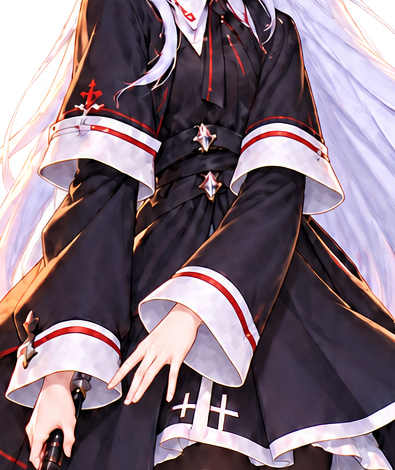
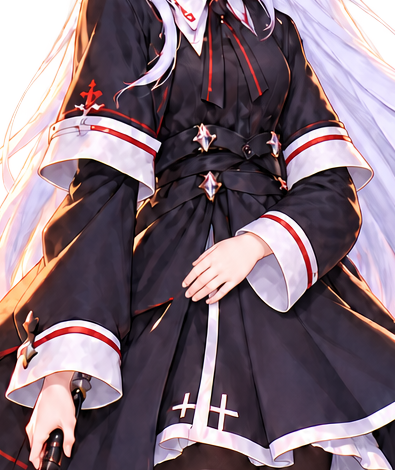
feat: give each gesture a third in-between frame
The arm's way to the hilt and to the beret now has three in-betweens,
one added where the gap was widest: below the belt on the way to the hilt
(the old second frame becomes the third) and beside the temple on the way
to the beret. The gesture passes the five frames over 0.44 s and returns
in 0.5 s.

diff --git a/rogue-like-play/tools/build_lobby_hero.py b/rogue-like-play/tools/build_lobby_hero.py
@@ -14,8 +14,8 @@ swaying hair never leaves the texture):
   the edits can differ from the illustration.
 - art/characters/mio_lobby_pose_hilt.png, _pose_beret and _face_smile: the
   changed rectangle (PATCHES) of the edits mio_lobby_pose_hilt.png etc.,
-  for the Random Idle gestures and the click smile; _pose_hilt_1/_2 and
-  _pose_beret_1/_2 are the arm's in-between frames on the way there.
+  for the Random Idle gestures and the click smile; _pose_hilt_1 to _3 and
+  _pose_beret_1 to _3 are the arm's in-between frames on the way there.
 - art/characters/mio_lobby_motion.png: how far each body pixel may sway,
   read by ui/lobby_hero.gd. Red is the hair strands in front of her
   shoulder, green the coat and skirt hem; both grow towards the tips.
@@ -41,9 +41,11 @@ EYE_VARIANTS = ["half", "closed", "left", "right"]
 PATCHES = {
 	"pose_hilt_1": (215, 300, 610, 770),
 	"pose_hilt_2": (215, 300, 610, 770),
+	"pose_hilt_3": (215, 300, 610, 770),
 	"pose_hilt": (215, 300, 610, 770),
 	"pose_beret_1": (415, 85, 690, 545),
 	"pose_beret_2": (415, 85, 690, 545),
+	"pose_beret_3": (415, 85, 690, 545),
 	"pose_beret": (415, 85, 690, 545),
 	"face_smile": (295, 135, 455, 300),
 }

diff --git a/rogue-like-play/開発メモ.md b/rogue-like-play/開発メモ.md
@@ -325,7 +325,7 @@ godot --headless --path . --log-file .godot/restart-read.log --script res://test
 
 > 笑顔：Change ONLY her facial expression: a gentle, warm closed-mouth smile with softly curved, slightly narrowed happy eyes and a faint blush, same anime style, same eye color. The face shape, head position, hair and everything else stay the same. Everything else must stay pixel-identical in position, size, pose, framing, colors and lighting: her head, face, hair, beret, legs, boots and the rest of the clothes must not move or change. Same 1024x1536 canvas and same placement of the character. No text, no watermark.
 
-腕が動く途中の差分（`mio_lobby_pose_hilt_1.png`・`_2`、`mio_lobby_pose_beret_1.png`・`_2`）も同じ方法で作りました。途中の位置だけを変えた指示です。
+腕が動く途中の差分（`mio_lobby_pose_hilt_1.png`〜`_3`、`mio_lobby_pose_beret_1.png`〜`_3`）も同じ方法で作りました。途中の位置だけを変えた指示です。剣の柄の`_2`と帽子の`_3`は、間隔が空いていた区間を埋めるため後から追加したもので、以下の「途中1・途中2」の指示はそれぞれ柄の`_1`・`_3`、帽子の`_1`・`_2`にあたります。
 
 > 柄へ向かう途中1：Change ONLY one arm and hand: the hand that now rests near her chest (on the right side of the picture). It has started moving down towards the sword hilt that her other hand holds at her hip on the left side of the picture: the hand is now in front of her waist belt, at the middle of her body, about one third of the way from her chest to the hilt. Same sleeve, white cuff with red stripe, same anime painting style. This is an in-between animation frame, so the arm must be clearly part-way along that motion, not at its start or end. Everything else must stay pixel-identical in position, size, pose, framing, colors and lighting: her head, face, hair, beret, the other arm, the sword, legs, boots and the rest of the clothes must not move or change. Same 1024x1536 canvas and same placement of the character. No text, no watermark.
 
@@ -334,6 +334,10 @@ godot --headless --path . --log-file .godot/restart-read.log --script res://test
 > 帽子へ向かう途中1：Change ONLY one arm and hand: the hand that now rests near her chest (on the right side of the picture). It has started rising towards her beret: the hand is now up at the height of her collar and shoulder, elbow bent out to the side, about one third of the way from her chest to the beret brim. Same sleeve, white cuff with red stripe, same anime painting style. This is an in-between animation frame, so the arm must be clearly part-way along that motion, not at its start or end. Everything else must stay pixel-identical in position, size, pose, framing, colors and lighting: her head, face, hair, beret, the other arm, the sword, legs, boots and the rest of the clothes must not move or change. Same 1024x1536 canvas and same placement of the character. No text, no watermark.
 
 > 帽子へ向かう途中2：Change ONLY one arm and hand: the hand that now rests near her chest (on the right side of the picture). It is rising towards her beret: the hand is now up beside her cheek and ear, elbow raised, about two thirds of the way from her chest to the beret brim, fingers approaching the white flower ornament but not yet touching the beret. Same sleeve, white cuff with red stripe, same anime painting style. This is an in-between animation frame, so the arm must be clearly part-way along that motion, not at its start or end. Everything else must stay pixel-identical in position, size, pose, framing, colors and lighting: her head, face, hair, beret, the other arm, the sword, legs, boots and the rest of the clothes must not move or change. Same 1024x1536 canvas and same placement of the character. No text, no watermark.
+
+> 柄へ向かう途中（追加、柄の_2）：Change ONLY one arm and hand: the hand that now rests near her chest (on the right side of the picture). It is moving down towards the sword hilt that her other hand holds at her hip on the left side of the picture: the hand is now in front of her lower belly, just below the belt at the middle of her body, about halfway from her chest to the hilt, palm turned towards her body. Same sleeve, white cuff with red stripe, same anime painting style. This is an in-between animation frame, so the arm must be clearly part-way along that motion, not at its start or end. Everything else must stay pixel-identical in position, size, pose, framing, colors and lighting: her head, face, hair, beret, the other arm, the sword, legs, boots and the rest of the clothes must not move or change. Same 1024x1536 canvas and same placement of the character. No text, no watermark.
+
+> 帽子へ向かう途中（追加、帽子の_3）：Change ONLY one arm and hand: the hand that now rests near her chest (on the right side of the picture). It is rising towards her beret: the hand is now raised beside her temple at eye level, elbow lifted high out to the side, fingers just below the beret brim, about three quarters of the way from her chest to the beret brim, not yet touching it. Same sleeve, white cuff with red stripe, same anime painting style. This is an in-between animation frame, so the arm must be clearly part-way along that motion, not at its start or end. Everything else must stay pixel-identical in position, size, pose, framing, colors and lighting: her head, face, hair, beret, the other arm, the sword, legs, boots and the rest of the clothes must not move or change. Same 1024x1536 canvas and same placement of the character. No text, no watermark.
 
 `art/hub/ancient_ruins.png`の生成プロンプト：
 
